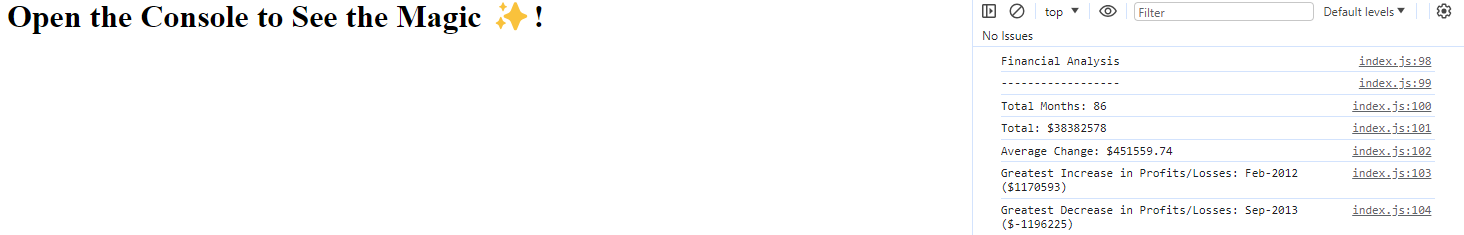
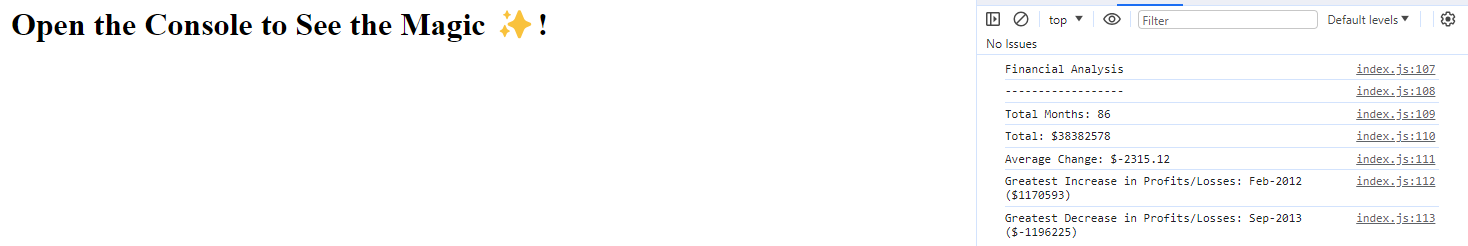
fix average change, add comments, clean up

diff --git a/index.js b/index.js
@@ -1,3 +1,4 @@
+// stored in an object to make things slightly easier
 const finances = {
   'Jan-2010': 867884,
   'Feb-2010': 984655,
@@ -87,18 +88,28 @@ const finances = {
   'Feb-2017': 671099
 }
 
-const totalMonths = Object.keys(finances).length;
-const total = Object.values(finances).reduce((a, b) => a + b, 0);
-const avgChange = (total / (totalMonths - 1)).toFixed(2);
-const maxIncrease = Math.max(...(Object.values(finances)));
-const maxDecrease = Math.min(...(Object.values(finances)));
-const maxIncMonth = Object.entries(finances).find(([key, value]) => value === maxIncrease)[0];
-const maxDecMonth = Object.entries(finances).find(([key, value]) => value === maxDecrease)[0];
+// stored in variables for increased performance
+const objVals = Object.values(finances);
+const objEntries = Object.entries(finances);
+
+const changes = [];
+
+const totalMonths = objVals.length;
+const total = objVals.reduce((a, b) => a + b, 0);
+
+// find average change
+for (let i = 1; i < totalMonths; ++i) changes.push(objVals[i] - objVals[i - 1]);
+const avgChange = changes.reduce((a, b) => a + b, 0) / (totalMonths - 1);
+
+const maxIncrease = Math.max(...objVals);
+const maxDecrease = Math.min(...objVals);
+const maxIncMonth = objEntries.find(([key, value]) => value === maxIncrease)[0];
+const maxDecMonth = objEntries.find(([key, value]) => value === maxDecrease)[0];
 
 console.log("Financial Analysis");
 console.log("------------------");
 console.log(`Total Months: ${totalMonths}`);
 console.log(`Total: \$${total}`);
-console.log(`Average Change: \$${avgChange}`);
+console.log(`Average Change: \$${avgChange.toFixed(2)}`);
 console.log(`Greatest Increase in Profits/Losses: ${maxIncMonth} (\$${maxIncrease})`);
 console.log(`Greatest Decrease in Profits/Losses: ${maxDecMonth} (\$${maxDecrease})`);
